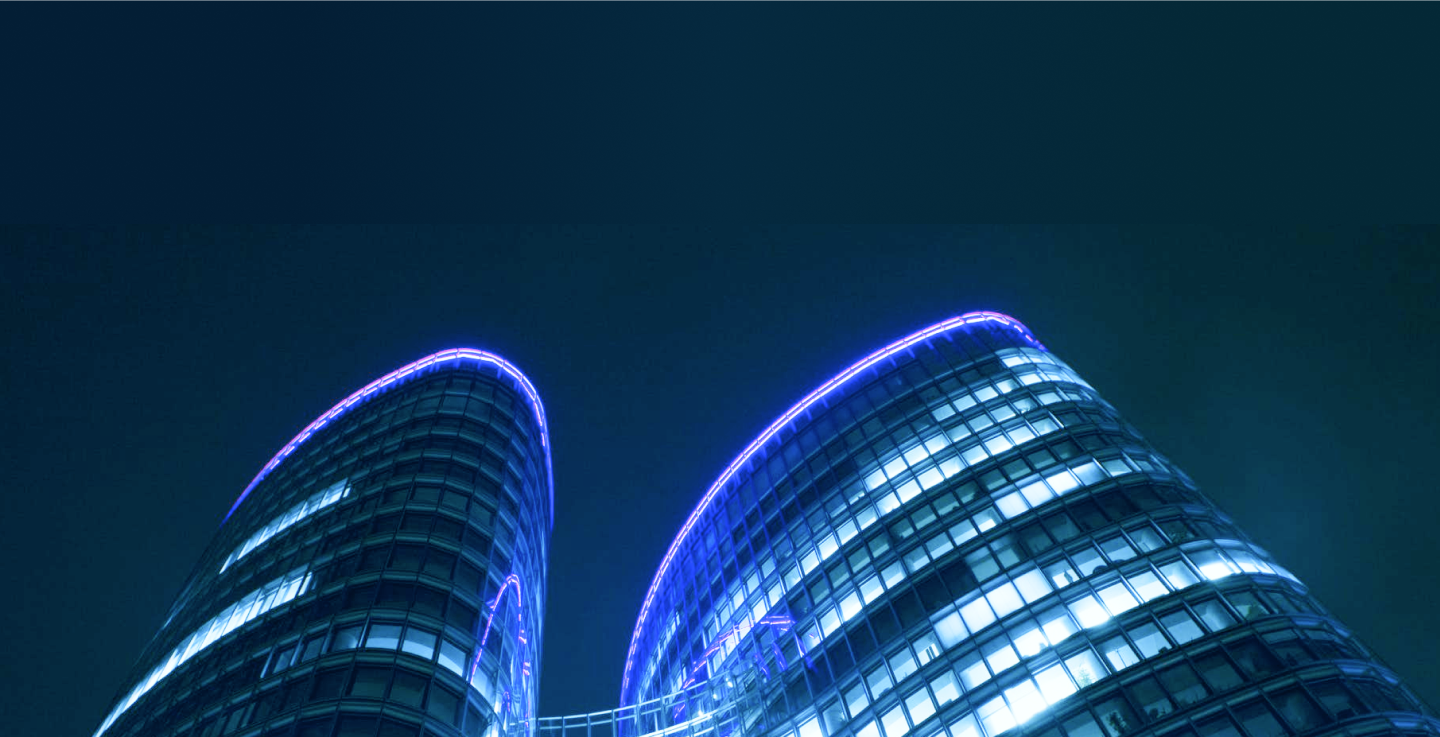
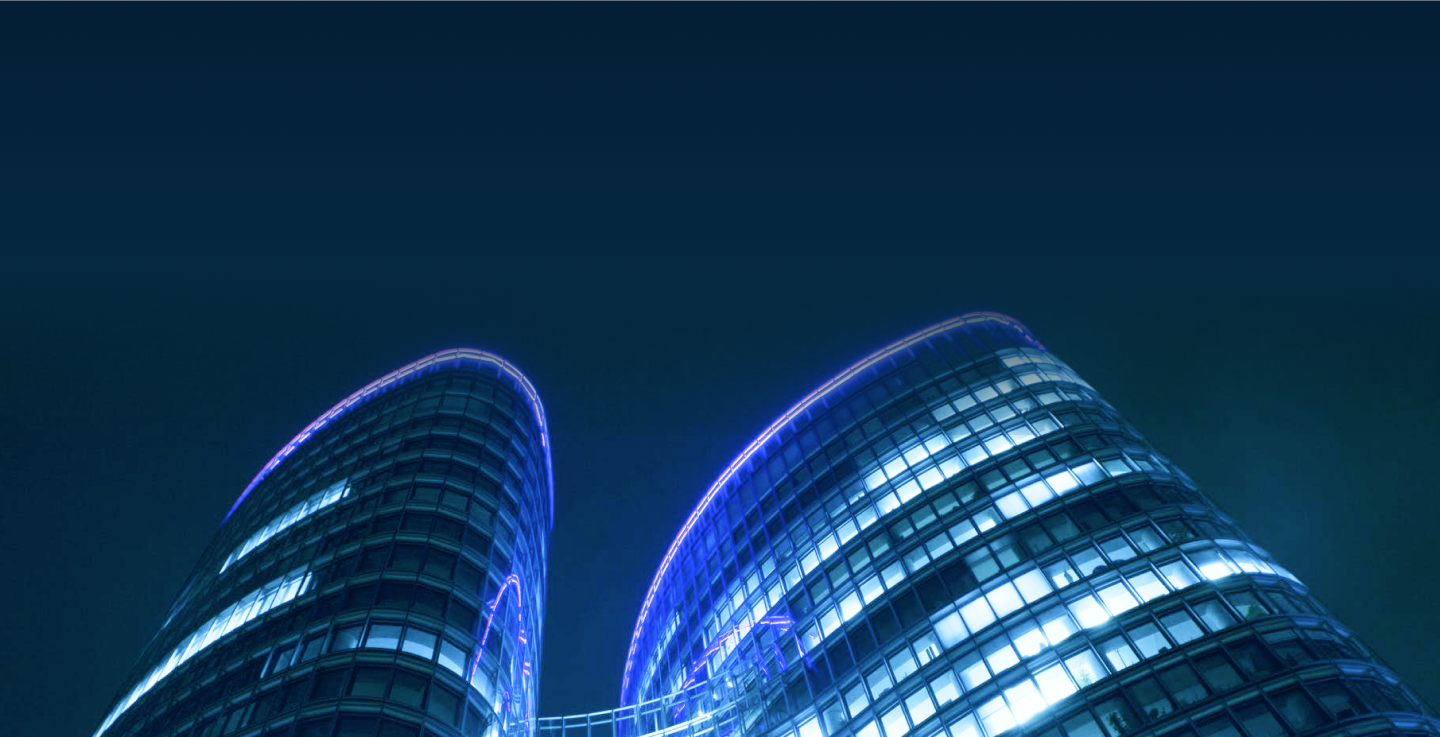
working on home page slider

Changed region(s): [[0.5312, 0.3745, 0.7812, 0.5929], [0.2188, 0.4369, 0.375, 0.5929], [0.375, 0.5617, 0.4062, 0.5929]]

diff --git a/app/styles/page/_home.scss b/app/styles/page/_home.scss
@@ -147,28 +147,6 @@
 										visibility : visible;
 										pointer-events : visible;
 									}
-
-
-									//adding animation
-									.section--image {
-										-webkit-animation-name : fade;
-										-webkit-animation-duration : 0.7s;
-										        animation-name : fade;
-										        animation-duration : 0.7s;
-										// transform-origin: center;
-									}
-
-									@keyframes fade {
-										from {
-											opacity : 0.4;
-											transform : scaleX(0);
-										}
-
-										to {
-											opacity : 1;
-											transform : scaleX(1);
-										}
-									}
 								}
 							}
 
@@ -264,12 +242,36 @@
 									}
 
 									&--image {
+										.works_block_img_w_in {
+											position : absolute;
+											left : 0;
+											top : 0;
+											width : 100%;
+											height : 100%;
+											// left : 100%;
+											background-color : green;
+										}
+
+										.works_block_img {
+											// left : -100%;
+											position : absolute;
+											top : 0;
+											display : block;
+											width : 100%;
+											height : 100%;
+											object-fit : cover;
+											will-change : transform;
+											z-index : 5;
+										}
+
 										a {
 											width : 100%;
 										}
 
+										background-color : yellow;
 										width : 100%;
 										height : auto;
+										position : relative;
 
 										@media(min-width: $tablet) {
 											order : 1;
@@ -558,13 +560,13 @@
 		text-align : left;
 
 		@media(min-width: $tablet) {
-			top : 0;
+			top : initial;
 			display : flex;
 			flex-direction : row;
 		}
 
 		@media(min-width: $tablet) {
-			bottom : -50px;
+			bottom : -65px;
 			left : 51.5%;
 			display : flex;
 			flex-direction : row;
